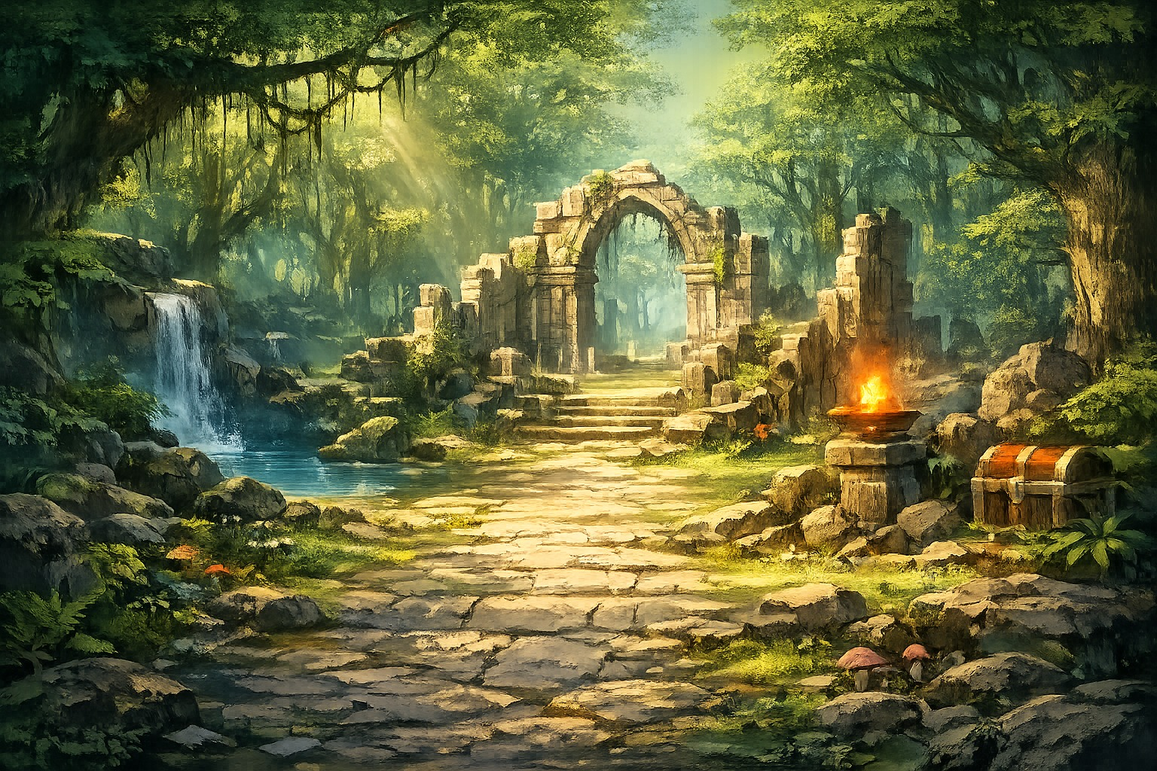
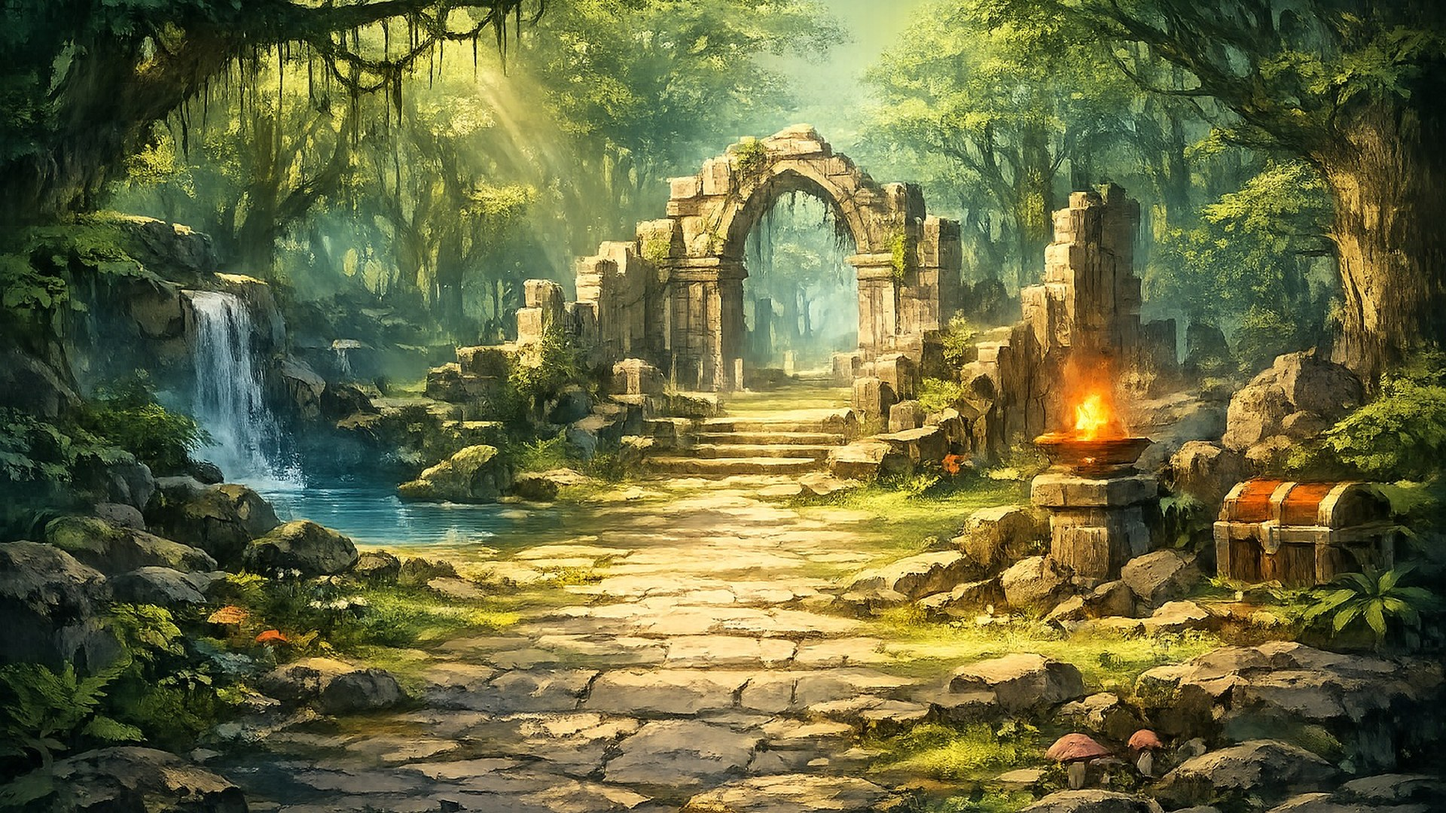
背景

diff --git a/game.js b/game.js
@@ -4,6 +4,7 @@ document.addEventListener('contextmenu', e => e.preventDefault());
 
 const $ = (id) => document.getElementById(id);
 const els = {
+  battleBg:document.querySelector('.battle-bg'),
   chests:$('chests'), mats:$('mats'), volumeSlider:$('volumeSlider'), muteBtn:$('muteBtn'), expLabel:$('expLabel'), expGainLabel:$('expGainLabel'), expFill:$('expFill'),
   enemyName:$('enemyName'), enemyLevel:$('enemyLevel'), enemyTag:$('enemyTag'), enemyImg:$('enemyImg'), enemyCard:$('enemyCard'), enemyHpFill:$('enemyHpFill'), enemyHpText:$('enemyHpText'),
   heroCard:$('heroCard'), heroHpFill:$('heroHpFill'), heroHpText:$('heroHpText'), heroLevel:$('heroLevel'), deathDanceStatus:$('deathDanceStatus'),
@@ -12,6 +13,17 @@ const els = {
   equipList:$('equipList'), upgradeBtn:$('upgradeBtn'), inventory:$('inventory'), tooltip:$('tooltip'), log:$('log'),
   equipToggleBtn:$('equipToggleBtn'), sidePanel:document.querySelector('.side-panel'), volumeSlider:$('volumeSlider'), volumeText:$('volumeText'), debugBtn:$('debugBtn'), debugPanel:$('debugPanel'), debugAddChests:$('debugAddChests'), debugResetData:$('debugResetData'), debugBestSword:$('debugBestSword'), debugBestAccessory:$('debugBestAccessory'), debugKillEnemy:$('debugKillEnemy'), debugKillHero:$('debugKillHero'), debugClose:$('debugClose'), openAllBtn:$('openAllBtn'), bestEquipBtn:$('bestEquipBtn'), sellSelectedBtn:$('sellSelectedBtn'), sellNormalChk:$('sellNormalChk'), sellRareChk:$('sellRareChk'), sellLegendaryChk:$('sellLegendaryChk')
 };
+
+
+const BATTLE_BACKGROUNDS = [
+  {id:'forest', name:'草原遺跡', src:'assets/bg_forest_ruins.jpg'},
+  {id:'city', name:'市街地', src:'assets/bg_city.jpg'},
+  {id:'desert', name:'砂漠', src:'assets/bg_desert.jpg'},
+  {id:'volcano', name:'火山地帯', src:'assets/bg_volcano.jpg'},
+  {id:'meteor_hill', name:'流星の丘', src:'assets/bg_meteor_hill.jpg'},
+];
+let currentBattleBgId = '';
+let battleBgTimer = null;
 
 const ENEMIES = [
   {id:'slime', name:'スライム', type:'雑魚', img:'assets/enemy_slime.jpg', element:'normal', hp:1200, atk:28, def:5, xp:22, gold:25, weight:'normal'},
@@ -48,6 +60,22 @@ const SAVE_KEY = 'mini-browser-hero-save-v36';
 let isResettingUserData = false;
 let saveTimer = null;
 
+
+
+function switchRandomBattleBackground(initial=false){
+  if(!els.battleBg || !BATTLE_BACKGROUNDS.length) return;
+  let candidates = BATTLE_BACKGROUNDS;
+  if(BATTLE_BACKGROUNDS.length > 1 && currentBattleBgId){
+    candidates = BATTLE_BACKGROUNDS.filter(bg => bg.id !== currentBattleBgId);
+  }
+  const bg = candidates[Math.floor(Math.random() * candidates.length)] || BATTLE_BACKGROUNDS[0];
+  currentBattleBgId = bg.id;
+  els.battleBg.style.backgroundImage = `url('${bg.src}')`;
+  els.battleBg.dataset.bgName = bg.name;
+  els.battleBg.classList.remove('bg-changing');
+  void els.battleBg.offsetWidth;
+  if(!initial) els.battleBg.classList.add('bg-changing');
+}
 
 function isMobileAudioMode(){
   return window.matchMedia('(max-width: 760px), (pointer: coarse)').matches;
@@ -114,6 +142,9 @@ function init(){
   state.inventory = [];
   loadGame();
   bind();
+  switchRandomBattleBackground(true);
+  if(battleBgTimer) clearInterval(battleBgTimer);
+  battleBgTimer = setInterval(()=>switchRandomBattleBackground(false), 5 * 60 * 1000);
   if(!state.mobileMuted) startAudio();
   state.lastHeroAttack = -999999;
   state.lastEnemyAttack = performance.now();

diff --git a/style.css b/style.css
@@ -945,3 +945,8 @@ body.using-touch .tooltip{display:none!important;}
 }
 
 .right-panel,.warehouse{min-height:0}.warehouse-list{overflow-y:auto;max-height:60vh;}
+
+/* v55: バトル背景ランダム切替 */
+.battle-bg{transition:opacity .45s ease, filter .45s ease, transform .45s ease;}
+.battle-bg.bg-changing{animation:battleBgChange .75s ease;}
+@keyframes battleBgChange{0%{opacity:.35;transform:scale(1.08)}100%{opacity:1;transform:scale(1.04)}}

diff --git a/README.md b/README.md
@@ -1,6 +1,15 @@
-# mini-browser-hero v53
+# Mini Browser Hero v56
 
-修正内容
-- PC大画面で倉庫が縦に伸び続ける問題を修正
-- PC大画面でも倉庫枠を固定し、中身だけスクロールするよう調整
-- v52までの修正内容は維持
+## 変更内容
+- 個別生成した背景画像を実装
+  - 草原遺跡
+  - 市街地
+  - 砂漠
+  - 火山地帯
+  - 流星の丘
+- 5分ごとにランダムで背景切り替え
+- 背景切り替え時のフェード演出
+- エフェクトで参照されていない未使用素材を削除
+
+## 反映方法
+中身を GitHub Pages の公開フォルダへ上書きしてください。
